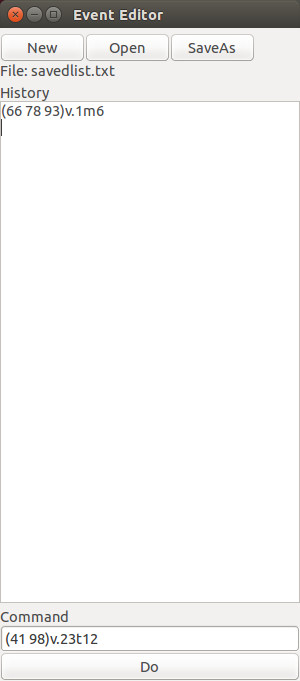
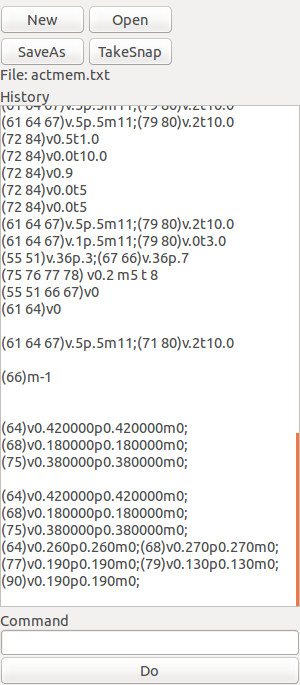
snapshots

diff --git a/manual/pages/act_pan.html b/manual/pages/act_pan.html
@@ -40,6 +40,9 @@ Open - open a mamory file
 SaveAs - save current memory file with name
 </li>
 <li>
+TakeSnap - save the current active oscillators parameters
+</li>
+<li>
 File: - indicates memory file in use
 </li>
 <li>

diff --git a/libs/actionsEditPanel.py b/libs/actionsEditPanel.py
@@ -22,16 +22,23 @@ class ActionsPanel(wx.Panel):
 		
 		#File field
 		self.filename = self.retriveLastFile()
-		self.filesizer = wx.BoxSizer(wx.HORIZONTAL)
+		self.filesizer = wx.GridBagSizer(hgap = 3, vgap = 3)
+		
 		self.newB = wx.Button(self, -1, label='New')
 		self.Bind(wx.EVT_BUTTON, self.doNewF, self.newB)
-		self.filesizer.Add(self.newB, 0,flag=wx.EXPAND)
+		self.filesizer.Add(self.newB, pos=(0,0), flag=wx.ALL)
+		
 		self.openB = wx.Button(self, -1, label='Open')
 		self.Bind(wx.EVT_BUTTON, self.doOpenF, self.openB)
-		self.filesizer.Add(self.openB, 0,flag=wx.EXPAND)
+		self.filesizer.Add(self.openB, pos=(0,1), flag=wx.ALL)
+		
 		self.saveasB = wx.Button(self, -1, label='SaveAs')
 		self.Bind(wx.EVT_BUTTON, self.doSaveAsF, self.saveasB)
-		self.filesizer.Add(self.saveasB, 0,flag=wx.EXPAND)
+		self.filesizer.Add(self.saveasB, pos=(1,0), flag=wx.ALL)
+		
+		self.snapshB = wx.Button(self, -1, label='TakeSnap')
+		self.Bind(wx.EVT_BUTTON, self.doSnapshot, self.snapshB)
+		self.filesizer.Add(self.snapshB, pos=(1,1), flag=wx.ALL)
 		
 		
 		self.fileT = wx.StaticText(self, -1, "File: " + self.filename, style= wx.ALIGN_CENTER | wx.TE_RICH)
@@ -254,6 +261,25 @@ class ActionsPanel(wx.Panel):
 		self.setLastFile()
 		self.fileT.SetLabel("File: " + self.filename)
 		self.sizer.Layout()
+		
+	def doSnapshot(self, event):
+		'''record active osillls'''
+		str = ""
+		for item in self.target.keypanel.oscillators:
+			vol = item.vol.GetValue()
+			if vol > 0.01:
+				note = item.counter
+				pan = item.vol.GetValue()
+				mod = item.speedvalue.GetSelection()
+				str = str + "(%d)v%.3fp%.3fm%d;" % (note, vol, pan, mod)
+		if str <> '':
+			self.memory.append(str)
+			#print self.memory
+			f = open("save/" + self.filename,"a")
+			f.write(str+"\n")
+			f.close()
+			self.hystory.AppendText(str + '\n')#add to hystory
+			self.hystindex = len(self.memory) - 1
 		
 
 

diff --git a/libs/oscillatorPanel.py b/libs/oscillatorPanel.py
@@ -54,7 +54,8 @@ class OscillatorPanel(wx.Panel):
 		
 		self.speedList = ["0.0", "0.03125","0.0625", "0.125", "0.25", "0.333", "0.5", "0.666", "0.75", "1.0", "2.0", "3.0", "4.0", "5.0", "6.0", "7.0", "8.0", "9.0", "10.0"] 
 		self.speedvalue = wx.ComboBox(self, -1, choices=self.speedList, size=wx.Size(60, 20))
-		self.speedvalue.SetValue("0.0")
+		#self.speedvalue.SetValue("0.0")
+		self.speedvalue.SetSelection(0)
 		self.Bind(wx.EVT_COMBOBOX, self.setSpeed, self.speedvalue)
 		self.cSound.SetChannel("spe_"+str(self.counter), 0.0)
 		
